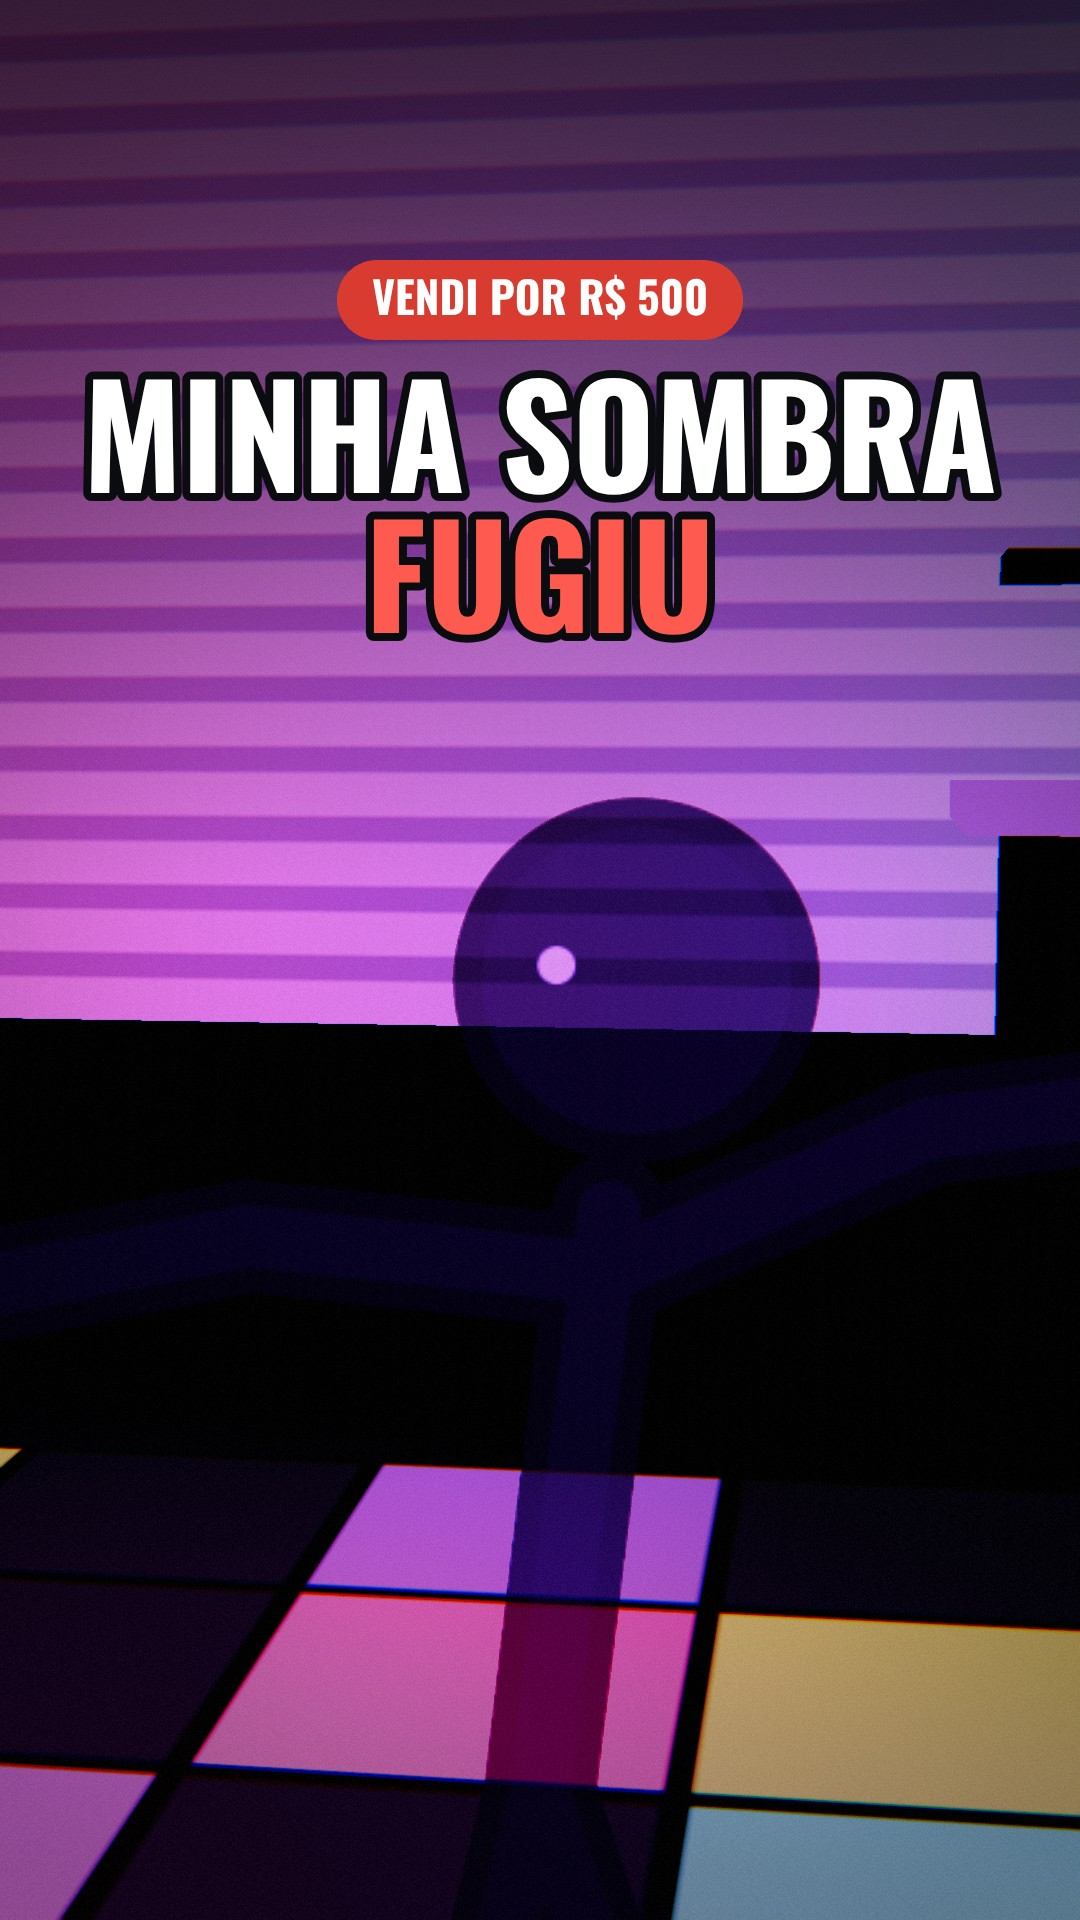
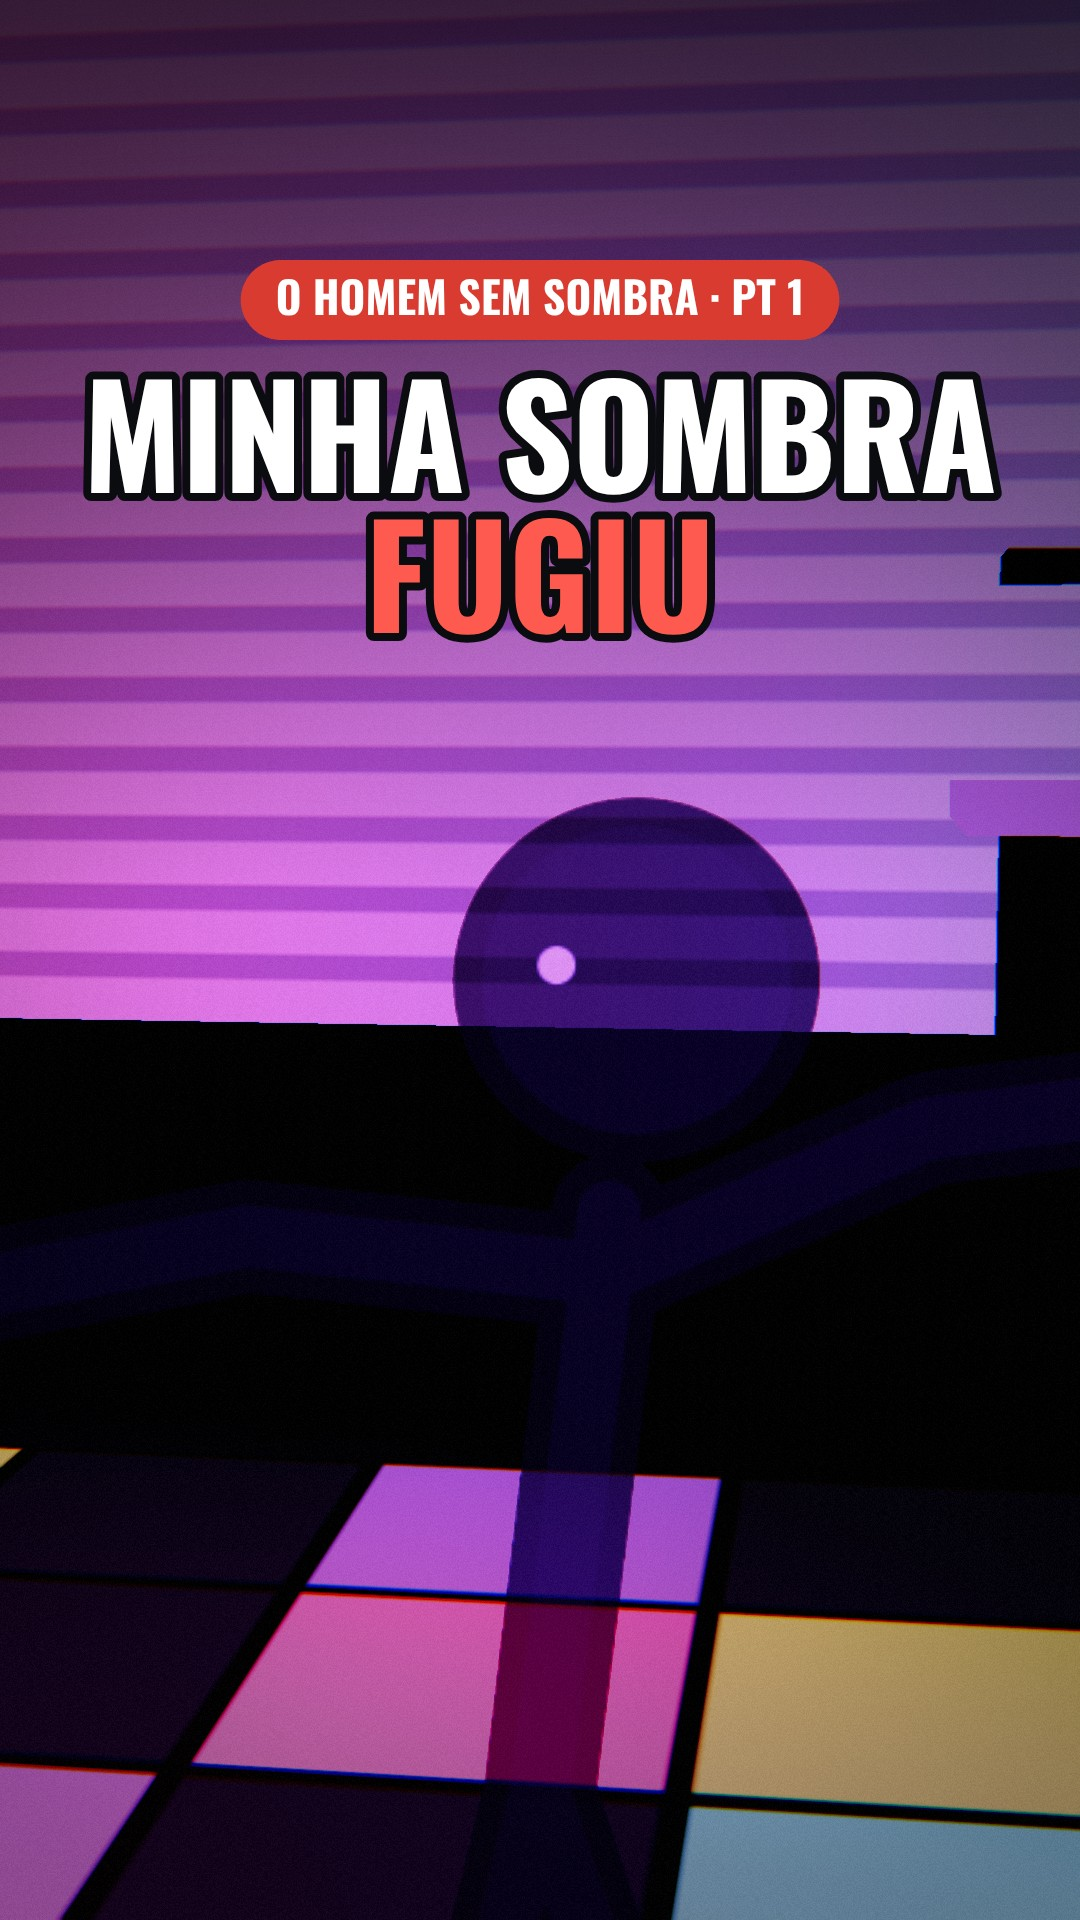
Shadow series covers: label PT 1/2/3 and auto-fit long titles
Claude-Session: https://claude.ai/code/session_01SZRMGPgZo1sSsGjL4mZMdN

Changed region(s): [[0.2139, 0.125, 0.7944, 0.1875]]

diff --git a/story/sombra/common.js b/story/sombra/common.js
@@ -37,5 +37,5 @@ export function scribble(c, x, y, k, col = '#1f3a8a', wd = 300) {
   for (let i = 0; i <= n; i++) { const u = i / 60, px = x + u * wd, py = y + Math.sin(u * 22) * 22 * (1 - u * 0.5) + Math.sin(u * 7) * 8; i ? c.lineTo(px, py) : c.moveTo(px, py); } c.stroke(); c.restore();
 }
 export function pill(c, s, y) { c.save(); c.font = '700 44px Oswald'; const wd = c.measureText(s).width + 70; c.fillStyle = '#d93b30'; c.beginPath(); c.roundRect(540 - wd / 2, y - 40, wd, 80, 40); c.fill(); c.fillStyle = '#fff'; c.textAlign = 'center'; c.textBaseline = 'middle'; c.fillText(s, 540, y + 2); c.restore(); }
-export function title(c, a, b, colB = '#ff5a4f') { c.save(); c.textAlign = 'center'; c.textBaseline = 'middle'; c.lineJoin = 'round'; for (const [s, y, col] of [[a, 450, '#ffffff'], [b, 590, colB]]) { c.font = '700 140px Oswald'; c.lineWidth = 16; c.strokeStyle = '#0b0c0f'; c.strokeText(s, 540, y); c.fillStyle = col; c.fillText(s, 540, y); } c.restore(); }
+export function title(c, a, b, colB = '#ff5a4f') { c.save(); c.textAlign = 'center'; c.textBaseline = 'middle'; c.lineJoin = 'round'; for (const [s, y, col] of [[a, 450, '#ffffff'], [b, 590, colB]]) { let fs = 140; c.font = `700 ${fs}px Oswald`; while (c.measureText(s).width > 980 && fs > 60) { fs -= 4; c.font = `700 ${fs}px Oswald`; } c.lineWidth = 16; c.strokeStyle = '#0b0c0f'; c.strokeText(s, 540, y); c.fillStyle = col; c.fillText(s, 540, y); } c.restore(); }
 export function strike(c, t, t0) { c.save(); c.translate(540, 560); c.rotate(-0.06); c.strokeStyle = '#d93b30'; c.lineWidth = 22; c.lineCap = 'round'; c.beginPath(); c.moveTo(-360, 60); c.lineTo(-360 + 720 * ease((t - t0) / 0.3), -40); c.stroke(); c.restore(); }

diff --git a/story/sombra/part3/film.html b/story/sombra/part3/film.html
@@ -103,7 +103,7 @@ window.seek = t => {
 function cover() {
   const tt = L0(18) + 1; SH[20][1](tt, 1); stage.draw(tt, { vignette: 0.42, bloomStrength: 0.45 });
   { const gr = c.createLinearGradient(0, 0, 0, 900); gr.addColorStop(0, 'rgba(0,0,0,0.6)'); gr.addColorStop(1, 'rgba(0,0,0,0)'); c.fillStyle = gr; c.fillRect(0, 0, CW, 900); }
-  pill(c, 'O HOMEM SEM SOMBRA · FINAL', 300); title(c, 'AGORA ELE', 'QUER MEU REFLEXO');
+  pill(c, 'O HOMEM SEM SOMBRA · PT 3', 300); title(c, 'AGORA ELE', 'QUER MEU REFLEXO');
 }
 await loadFonts();
 window.seek(0);

diff --git a/story/sombra/part2/film.html b/story/sombra/part2/film.html
@@ -112,7 +112,7 @@ window.seek = t => {
 function cover() {
   const tt = L0(9) + 0.5; SH[9][1](tt, 0.5); stage.draw(tt, { vignette: 0.42, bloomStrength: 0.45 });
   { const gr = c.createLinearGradient(0, 0, 0, 900); gr.addColorStop(0, 'rgba(0,0,0,0.6)'); gr.addColorStop(1, 'rgba(0,0,0,0)'); c.fillStyle = gr; c.fillRect(0, 0, CW, 900); }
-  pill(c, 'O HOMEM SEM SOMBRA · PARTE 2', 300); title(c, 'ELA VIROU', 'MINHA CHEFE');
+  pill(c, 'O HOMEM SEM SOMBRA · PT 2', 300); title(c, 'ELA VIROU', 'MINHA CHEFE');
 }
 await loadFonts();
 window.seek(0);

diff --git a/story/sombra/part1/film.html b/story/sombra/part1/film.html
@@ -137,7 +137,7 @@ window.seek = t => {
 function cover() {
   const tt = L0(19) + 0.4; SH[22][1](tt, 0.4); stage.draw(tt, { vignette: 0.42, bloomStrength: 0.8 });
   { const gr = c.createLinearGradient(0, 0, 0, 900); gr.addColorStop(0, 'rgba(0,0,0,0.6)'); gr.addColorStop(1, 'rgba(0,0,0,0)'); c.fillStyle = gr; c.fillRect(0, 0, CW, 900); }
-  pill(c, 'VENDI POR R$ 500', 300); title(c, 'MINHA SOMBRA', 'FUGIU');
+  pill(c, 'O HOMEM SEM SOMBRA · PT 1', 300); title(c, 'MINHA SOMBRA', 'FUGIU');
 }
 await loadFonts();
 window.seek(0);
